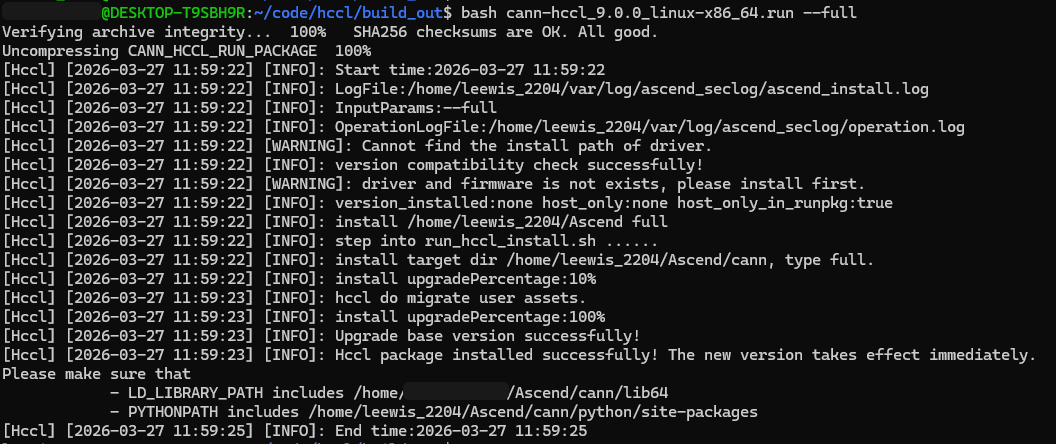
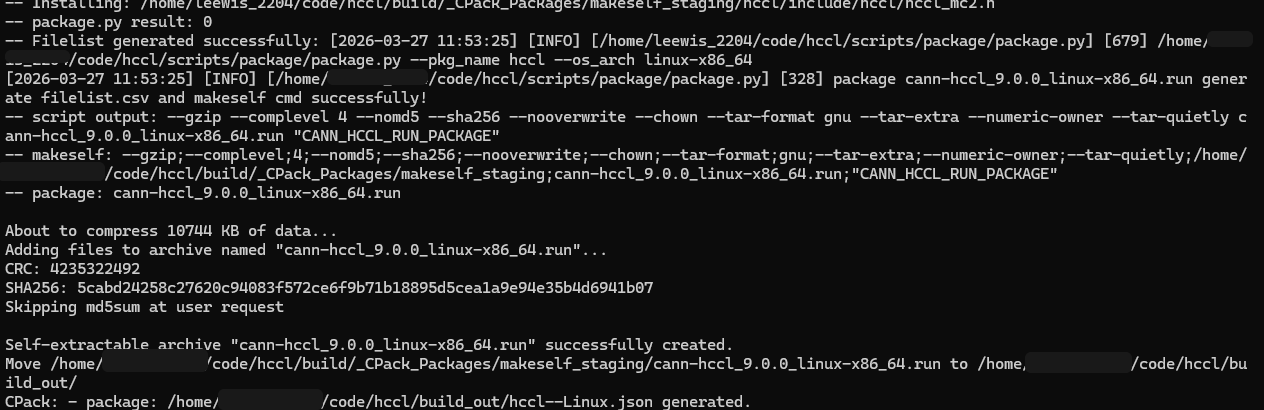
wiki

Changed region(s): [[0.0, 0.0, 1.0, 1.0], [0.875, 0.878, 1.0, 0.9073]]

diff --git a/docs/wiki/HCCL_端到端编译部署完整教程.md b/docs/wiki/HCCL_端到端编译部署完整教程.md
@@ -241,7 +241,7 @@ bash ./build_out/cann-hccl_<version>_linux-<arch>.run --full
 ```
 - 请注意：编译时需要将上述命令中的软件包名称替换为实际软件包名称。
 - 安装完成后，用户编译生成的HCCL软件包会替换已安装CANN Toolkit开发套件包中的HCCL相关软件。
-![安装HCCL](image-11.png)
+![安装HCCL](image-12.png)
 
 ### 4. 卸载 HCCL 软件包
 ```bash
